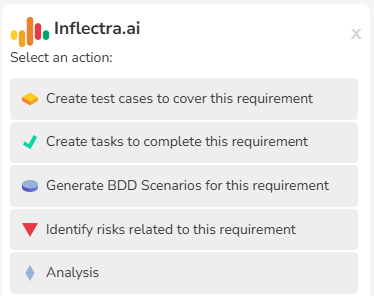
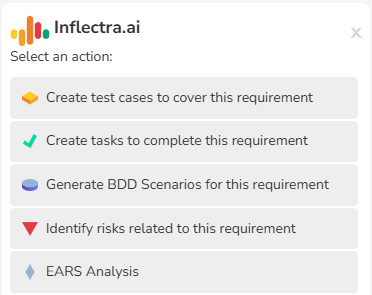
[RQ:5353] Update documentation for EARS Analysis

diff --git a/docs/Spira-User-Manual/Inflectra-Ai-In-Spira.md b/docs/Spira-User-Manual/Inflectra-Ai-In-Spira.md
@@ -70,7 +70,7 @@ From the requirement details page you can generate the following content:
 | Task               | Creates a set of work tasks needed to deliver the functionality in this requirement (SpiraTeam and SpiraPlan only)                          | 
 | Scenarios          | Generates BDD scenarios for this requirement, to represent the requirement as defined behaviors (available if the requirement type allows steps)              | 
 | Risks              | Identifies any risks that may impact the deployment or development of this functionality (SpiraTeam and SpiraPlan only)                      | 
-| Analysis           | Returns an analysis of the requirement based on a chosen ruleset, such as EARS.|
+| EARS Analysis           | Returns an analysis of the requirement based on the EARS ruleset.*|
 
 When generating content for a requirement, the following information is provided to Inflectra.ai:
 
@@ -80,6 +80,10 @@ When generating content for a requirement, the following information is provided
 - Any existing requirement steps
 - Names of the parent, grandparent, and so on, of the requirement (its hierarchy)
 - The product name of the product the requirement is in
+
+!!! info "*EARS Analysis"
+
+    EARS stands for "the Easy Approach to Requirements Syntax", which you can learn more about [here]()
 
 ### Test Case details page
 From the test case details page you can generate the following content:
